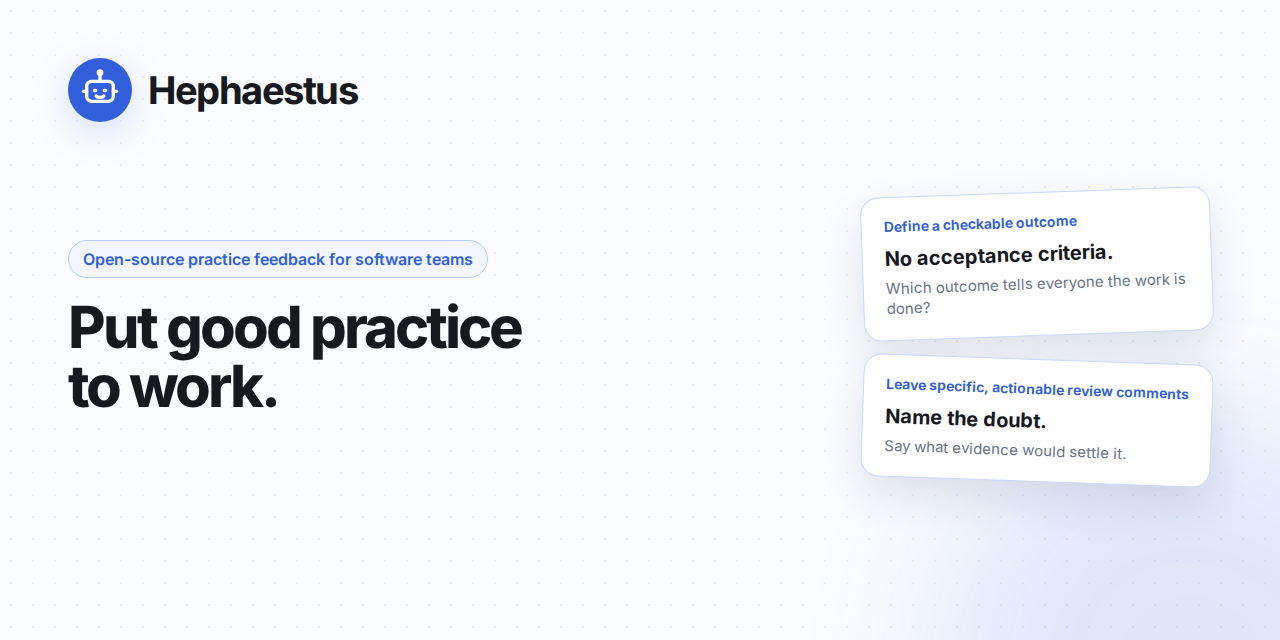
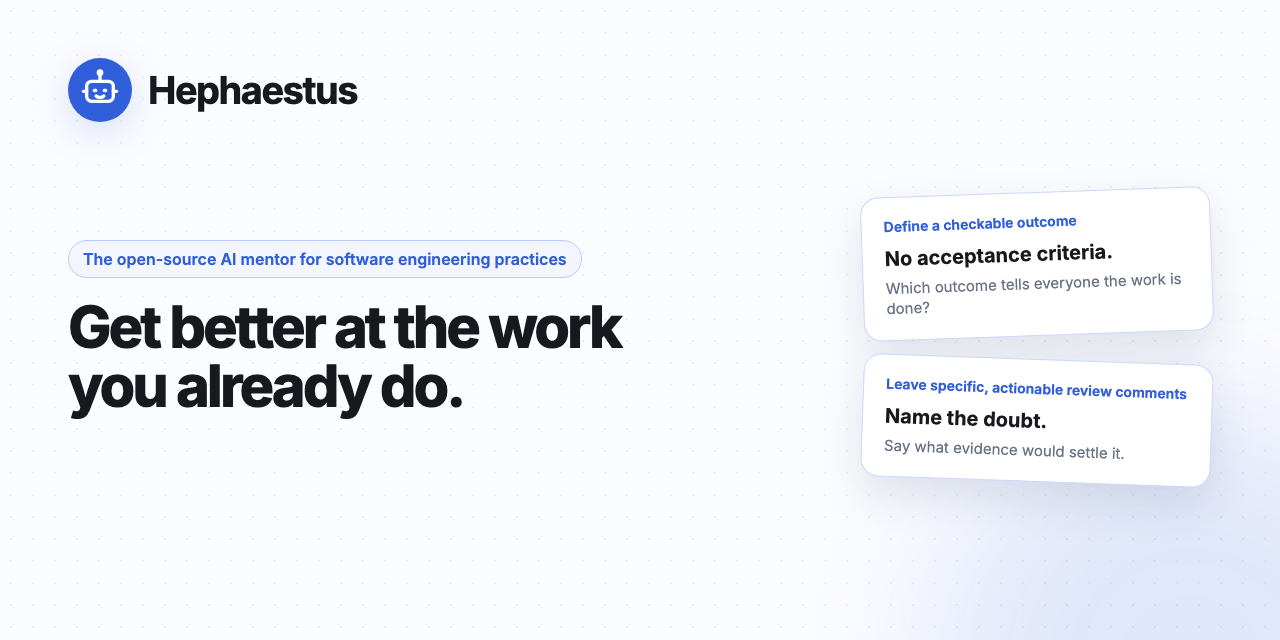
feat(webapp): Hephaestus introduces itself as the open-source AI mentor
The start page, the About page, the page title, the link previews, the
installed app and the social cards carry the new category line, tagline
and lead. The six features match the README and the docs. Two new
answers say what an AI mentor does and who sees your feedback.

diff --git a/webapp/scripts/export-assets.ts b/webapp/scripts/export-assets.ts
@@ -168,7 +168,7 @@ async function render(): Promise<void> {
 			): Promise<void> => {
 				await page.setViewportSize({ width, height });
 				await page.setContent(
-					`<style>${FONT_FACE}*{box-sizing:border-box}html,body{margin:0;width:100%;height:100%;font-family:Inter,sans-serif;background:#fbfcff;color:#17191f}.card{position:relative;isolation:isolate;height:100%;padding:58px 68px;overflow:hidden;background-image:radial-gradient(#315fdc18 1.2px,transparent 1.2px);background-size:22px 22px}.card::before{content:"";position:absolute;z-index:-1;width:520px;height:520px;right:-170px;bottom:-290px;border-radius:50%;background:#315fdc;opacity:.13;filter:blur(72px)}.brand{display:flex;align-items:center;gap:16px}.mark{width:64px;height:64px;flex:none;filter:drop-shadow(0 10px 18px rgb(49 95 220/.18))}.name{font-size:38px;font-weight:720;letter-spacing:-1.5px}.layout{display:grid;grid-template-columns:minmax(0,1fr) 350px;align-items:center;gap:64px;height:430px}.eyebrow{display:inline-flex;border:1px solid #b9cbff;border-radius:999px;padding:8px 14px;font-size:16px;font-weight:600;color:#315fdc;background:#f3f6ff}.headline{margin:20px 0 18px;font-size:58px;font-weight:760;letter-spacing:-3px;line-height:1.02}.cards{display:grid;gap:24px}.feedback{border:1px solid #cad7ff;border-radius:18px;padding:20px 22px;background:#fff;box-shadow:0 18px 44px rgb(32 46 80/.12)}.feedback:first-child{transform:rotate(-2deg)}.feedback:last-child{transform:rotate(2deg)}.practice{font-size:14px;font-weight:650;color:#315fdc}.finding{margin-top:12px;font-size:20px;font-weight:700;line-height:1.25}.detail{margin-top:7px;font-size:15px;line-height:1.35;color:#697386}</style><main class="card"><div class="brand"><div class="mark">${markSvg}</div><div class="name">Hephaestus</div></div><div class="layout"><section><div class="eyebrow">Open-source practice feedback for software teams</div><h1 class="headline">Put good practice<br>to work.</h1></section><aside class="cards"><div class="feedback"><div class="practice">Define a checkable outcome</div><div class="finding">No acceptance criteria.</div><div class="detail">Which outcome tells everyone the work is done?</div></div><div class="feedback"><div class="practice">Leave specific, actionable review comments</div><div class="finding">Name the doubt.</div><div class="detail">Say what evidence would settle it.</div></div></aside></div></main>`,
+					`<style>${FONT_FACE}*{box-sizing:border-box}html,body{margin:0;width:100%;height:100%;font-family:Inter,sans-serif;background:#fbfcff;color:#17191f}.card{position:relative;isolation:isolate;height:100%;padding:58px 68px;overflow:hidden;background-image:radial-gradient(#315fdc18 1.2px,transparent 1.2px);background-size:22px 22px}.card::before{content:"";position:absolute;z-index:-1;width:520px;height:520px;right:-170px;bottom:-290px;border-radius:50%;background:#315fdc;opacity:.13;filter:blur(72px)}.brand{display:flex;align-items:center;gap:16px}.mark{width:64px;height:64px;flex:none;filter:drop-shadow(0 10px 18px rgb(49 95 220/.18))}.name{font-size:38px;font-weight:720;letter-spacing:-1.5px}.layout{display:grid;grid-template-columns:minmax(0,1fr) 350px;align-items:center;gap:64px;height:430px}.eyebrow{display:inline-flex;border:1px solid #b9cbff;border-radius:999px;padding:8px 14px;font-size:16px;font-weight:600;color:#315fdc;background:#f3f6ff}.headline{margin:20px 0 18px;font-size:58px;font-weight:760;letter-spacing:-3px;line-height:1.02}.cards{display:grid;gap:24px}.feedback{border:1px solid #cad7ff;border-radius:18px;padding:20px 22px;background:#fff;box-shadow:0 18px 44px rgb(32 46 80/.12)}.feedback:first-child{transform:rotate(-2deg)}.feedback:last-child{transform:rotate(2deg)}.practice{font-size:14px;font-weight:650;color:#315fdc}.finding{margin-top:12px;font-size:20px;font-weight:700;line-height:1.25}.detail{margin-top:7px;font-size:15px;line-height:1.35;color:#697386}</style><main class="card"><div class="brand"><div class="mark">${markSvg}</div><div class="name">Hephaestus</div></div><div class="layout"><section><div class="eyebrow">The open-source AI mentor for software engineering practices</div><h1 class="headline">Get better at the work<br>you already do.</h1></section><aside class="cards"><div class="feedback"><div class="practice">Define a checkable outcome</div><div class="finding">No acceptance criteria.</div><div class="detail">Which outcome tells everyone the work is done?</div></div><div class="feedback"><div class="practice">Leave specific, actionable review comments</div><div class="finding">Name the doubt.</div><div class="detail">Say what evidence would settle it.</div></div></aside></div></main>`,
 				);
 				await page.evaluate(async () => document.fonts.ready);
 				await page.screenshot({ path: await output(target) });

diff --git a/webapp/index.html b/webapp/index.html
@@ -10,27 +10,27 @@
     <meta name="theme-color" content="#315FDC" />
     <meta
       name="description"
-      content="Hephaestus helps software teams put good engineering practices into their everyday work, with feedback as the work happens, in a weekly digest and over time."
+      content="Hephaestus is the open-source AI mentor for software engineering practices. It reads your real work, tells you what to improve and why, and talks it through with you."
     />
     <meta property="og:title" content="Hephaestus" />
     <meta
       property="og:description"
-      content="Hephaestus helps software teams put good engineering practices into their everyday work, with feedback as the work happens, in a weekly digest and over time."
+      content="Hephaestus is the open-source AI mentor for software engineering practices. It reads your real work, tells you what to improve and why, and talks it through with you."
     />
     <meta property="og:type" content="website" />
     <meta property="og:image" content="/hephaestus-social-card.png" />
     <meta property="og:image:type" content="image/png" />
-    <meta property="og:image:alt" content="Hephaestus: Put good practice to work." />
+    <meta property="og:image:alt" content="Hephaestus: Get better at the work you already do." />
     <meta property="og:image:width" content="1200" />
     <meta property="og:image:height" content="630" />
     <meta name="twitter:card" content="summary_large_image" />
     <meta name="twitter:title" content="Hephaestus" />
     <meta
       name="twitter:description"
-      content="Hephaestus helps software teams put good engineering practices into their everyday work, with feedback as the work happens, in a weekly digest and over time."
+      content="Hephaestus is the open-source AI mentor for software engineering practices. It reads your real work, tells you what to improve and why, and talks it through with you."
     />
     <meta name="twitter:image" content="/hephaestus-social-card.png" />
-    <meta name="twitter:image:alt" content="Hephaestus: Put good practice to work." />
+    <meta name="twitter:image:alt" content="Hephaestus: Get better at the work you already do." />
     <link rel="apple-touch-icon" href="/apple-touch-icon.png" sizes="180x180" />
     <!--
       Zod probes for eval with `new Function` when it builds an object schema, and the page's policy reports the refused probe.

diff --git a/webapp/src/components/site/product-features.ts b/webapp/src/components/site/product-features.ts
@@ -3,7 +3,7 @@ import {
 	ListChecks,
 	MessageSquareText,
 	MessagesSquare,
-	SlidersHorizontal,
+	ShieldCheck,
 	type LucideIcon,
 	UserRound,
 } from "lucide-react";
@@ -18,28 +18,28 @@ export interface ProductFeature {
 export const PRODUCT_FEATURES: ProductFeature[] = [
 	{
 		icon: ListChecks,
-		name: "Practices",
-		text: "Start from the catalog or write your own. Each states what good work looks like.",
+		name: "Practices Your Team Chose",
+		text: "Start from the catalog or write your own. Each practice states what good work looks like. For each practice, feedback is Off, waits for a workspace admin’s approval, or goes out automatically.",
 	},
 	{
 		icon: MessageSquareText,
 		name: "Feedback on the Work",
-		text: "A comment on the pull request, merge request, or issue.",
+		text: "A note on the pull request, merge request, or issue while it is still open. It cites the exact place, says why, and names a next step.",
+	},
+	{
+		icon: ShieldCheck,
+		name: "Speaks Only With Evidence",
+		text: "When the evidence does not support a point, Hephaestus says nothing. When it could not check a practice, it says so. It never turns a missing check into a claim about your work.",
 	},
 	{
 		icon: UserRound,
-		name: "Practice Page",
-		text: "Each developer’s private view of feedback and progress per practice. Workspace admins see the observations and delivery status behind it.",
+		name: "Practice Profile",
+		text: "Your private page for each practice: patterns across your work, what is going well, and where you stand. No score, grade, or rank.",
 	},
 	{
 		icon: MessagesSquare,
 		name: "Ask Hephaestus",
-		text: "A weekly digest you can turn on arrives in the conversation. Developers ask why, ask for an example, or disagree.",
-	},
-	{
-		icon: SlidersHorizontal,
-		name: "Feedback Mode",
-		text: "Off, Approve first, or Automatic, per workspace, practice group, or practice. Approve first holds feedback on the work until a workspace admin approves it.",
+		text: "Ask why, ask for an example, or disagree, in the web app or in a Slack direct message. A weekly digest you can turn on arrives there too.",
 	},
 	{
 		icon: Layers,

diff --git a/webapp/src/components/site/landing/LandingFaqSection.tsx b/webapp/src/components/site/landing/LandingFaqSection.tsx
@@ -7,6 +7,11 @@ import {
 
 const faqItems = [
 	{
+		key: "ai-mentor",
+		q: "What does an AI mentor do?",
+		a: "It gives one part of mentoring: feedback on how you apply engineering practices in your real work. Hephaestus checks your work against the practices your team chose. When your work gives it grounds, it says what to improve and why, and names a next step. When it does not, it stays silent or says that it could not check. It is software, not a person. It adds to your reviewers and mentors, and it can be wrong.",
+	},
+	{
 		key: "practice-feedback",
 		q: "What is practice feedback?",
 		a: "It is feedback on how developers apply engineering practices. A practice is a defined way of working. Examples are scoping a change, writing an issue someone can act on, answering a reviewer, testing, handling failure, and changing dependencies deliberately. Feedback can cite code when a practice concerns it, such as testing or handling failure. A curated set of practices ships with Hephaestus. Each piece of feedback names the practice it came from and points back to what it saw.",
@@ -20,6 +25,11 @@ const faqItems = [
 		key: "feedback-location",
 		q: "Where does feedback appear?",
 		a: "It can appear on the work itself, on each developer’s private practice page, or in your next conversation with Hephaestus. Feedback on the work waits for a workspace admin’s approval by default. Admins choose which repositories are connected. You can carry on the conversation in the web app or, when Slack is connected, in a direct message.",
+	},
+	{
+		key: "who-sees-feedback",
+		q: "Who sees my feedback?",
+		a: "Your feedback has no score, grade or rank. Workspace admins see practice results, each linked to the work it is about, and that feedback on your Practice profile exists, not what it says. They see no names unless a workspace owner turns that on, and each change is recorded. No workspace admin page shows your conversation with Hephaestus. Feedback on the work is visible to everyone who can see that work, like any review comment.",
 	},
 	{
 		key: "conversation",

diff --git a/webapp/src/components/site/landing/LandingHeroSection.tsx b/webapp/src/components/site/landing/LandingHeroSection.tsx
@@ -221,7 +221,7 @@ export function LandingHeroSection({ onSignIn }: LandingHeroSectionProps) {
 						size="lg"
 						className="relative z-10"
 					>
-						Open-source practice feedback for software teams
+						The open-source AI mentor for software engineering practices
 					</Badge>
 
 					<motion.h1
@@ -229,15 +229,15 @@ export function LandingHeroSection({ onSignIn }: LandingHeroSectionProps) {
 						id="landing-hero-heading"
 						className="relative z-10 mt-5 max-w-3xl text-4xl font-bold tracking-display text-balance sm:text-5xl md:text-6xl"
 					>
-						Put{" "}
+						Get better at the work you{" "}
 						<span className="relative inline-block whitespace-nowrap">
-							good practice
+							already do
 							<span
 								className={cn(styles.headlineMark, "absolute -right-1 -bottom-1 -left-1 -z-10")}
 								aria-hidden="true"
 							/>
-						</span>{" "}
-						to work.
+						</span>
+						.
 					</motion.h1>
 
 					<motion.p
@@ -245,12 +245,12 @@ export function LandingHeroSection({ onSignIn }: LandingHeroSectionProps) {
 						className="relative z-10 mt-6 max-w-2xl text-lg leading-relaxed text-pretty sm:text-xl"
 					>
 						<span className="font-semibold text-foreground">
-							Hephaestus helps software teams put good engineering practices into their everyday
-							work.
+							Hephaestus reads your work where it happens and checks it against the practices that
+							your team chose.
 						</span>{" "}
 						<span className="text-muted-foreground">
-							It reviews pull requests, issues, code reviews and team discussions as the work
-							happens. Each person gets feedback that cites their work and names a next step.
+							When your work gives it grounds, it tells you what to improve and why, and names a
+							next step. Then you can talk it through. It never grades you.
 						</span>
 					</motion.p>
 

diff --git a/webapp/src/components/site/about/AboutHeroSection.tsx b/webapp/src/components/site/about/AboutHeroSection.tsx
@@ -9,15 +9,15 @@ export function AboutHeroSection() {
 				About <HephaestusWordmark />
 			</h1>
 			<p className="mx-auto max-w-2xl text-xl leading-relaxed text-pretty text-muted-foreground">
-				Hephaestus helps software teams put good engineering practices into their everyday work. It
-				reviews pull requests, issues, code reviews and team discussions as the work happens. Each
-				person gets feedback that cites their work and names a next step. Feedback appears on the
-				work while it is still open, in a weekly digest, and on each person’s Practice profile. The
-				profile shows how each practice develops over time. Work drafted with a coding agent gets
-				the same feedback.
+				Hephaestus is the open-source AI mentor for software engineering practices. It reads your
+				pull requests, merge requests, issues and code reviews where they happen, and checks them
+				against the practices that your team chose. When your work gives it grounds, it tells you
+				what to improve and why, at the exact place, and names a next step. When it does not, it
+				stays silent or says that it could not check.
 			</p>
 			<p className="mx-auto max-w-2xl text-lg leading-relaxed text-pretty text-muted-foreground">
-				In a conversation, anyone can ask Hephaestus why, ask for an example, or disagree.
+				In a conversation, you can ask Hephaestus why, ask for an example, or disagree. Your
+				feedback has no score, grade or rank. Hephaestus is software, and it can be wrong.
 			</p>
 		</section>
 	);

diff --git a/webapp/src/components/site/landing/LandingFaqSection.test.tsx b/webapp/src/components/site/landing/LandingFaqSection.test.tsx
@@ -13,6 +13,16 @@ describe("LandingFaqSection", () => {
 		expect(answer.textContent).toContain("waits for a workspace admin’s approval by default");
 	});
 
+	it("says what workspace admins see and that feedback has no grade", async () => {
+		const user = userEvent.setup();
+		render(<LandingFaqSection />);
+		await user.click(screen.getByRole("button", { name: "Who sees my feedback?" }));
+		const answer = await screen.findByText(/Your feedback has no score, grade or rank/u);
+		expect(answer.textContent).toContain("No workspace admin page shows your conversation");
+		expect(answer.textContent).toContain("Feedback on the work is visible to everyone");
+		expect(answer.textContent).not.toMatch(/no admin/iu);
+	});
+
 	it("names the member AI choice and Slack permission", async () => {
 		const user = userEvent.setup();
 		render(<LandingFaqSection />);

diff --git a/webapp/src/routes/-login-route.test.tsx b/webapp/src/routes/-login-route.test.tsx
@@ -74,12 +74,11 @@ describe("contextual sign-in", () => {
 		renderRouteAtWithRouter("/");
 		await screen.findAllByRole("button", { name: "Sign in" }, ROUTE_RENDER_WAIT);
 		await userEvent.click(
-			within(screen.getByRole("region", { name: /Put good practice to work/u })).getByRole(
-				"button",
-				{
-					name: "Sign in",
-				},
-			),
+			within(
+				screen.getByRole("region", { name: /Get better at the work you already do/u }),
+			).getByRole("button", {
+				name: "Sign in",
+			}),
 		);
 		const dialog = await screen.findByRole("dialog");
 		within(dialog).getByRole("button", { name: "Continue with GitHub" });

diff --git a/webapp/src/routes/index.tsx b/webapp/src/routes/index.tsx
@@ -12,7 +12,7 @@ import { consentIsPending, resolveCurrentUser } from "@/runtime/auth/guard";
 import { NoWorkspaceContainer } from "./-NoWorkspaceContainer";
 
 export const Route = createFileRoute("/")({
-	head: pageHead("Open-source practice feedback for software teams"),
+	head: pageHead("The open-source AI mentor for software engineering practices"),
 	staticData: { surface: "bleed" },
 	beforeLoad: async ({ context }) => {
 		const user = await resolveCurrentUser(context.queryClient);

diff --git a/.changeset/ai-mentor-webapp-copy.md b/.changeset/ai-mentor-webapp-copy.md
@@ -1,0 +1,5 @@
+---
+"hephaestus": patch
+---
+
+Hephaestus now introduces itself as the open-source AI mentor for software engineering practices, with the tagline *Get better at the work you already do.* The start page, the About page, link previews and the installed app say what it does: it checks your work against your team's practices, says what to improve and why when your work gives it grounds, and stays silent when it does not. The start page also answers who sees your feedback.
